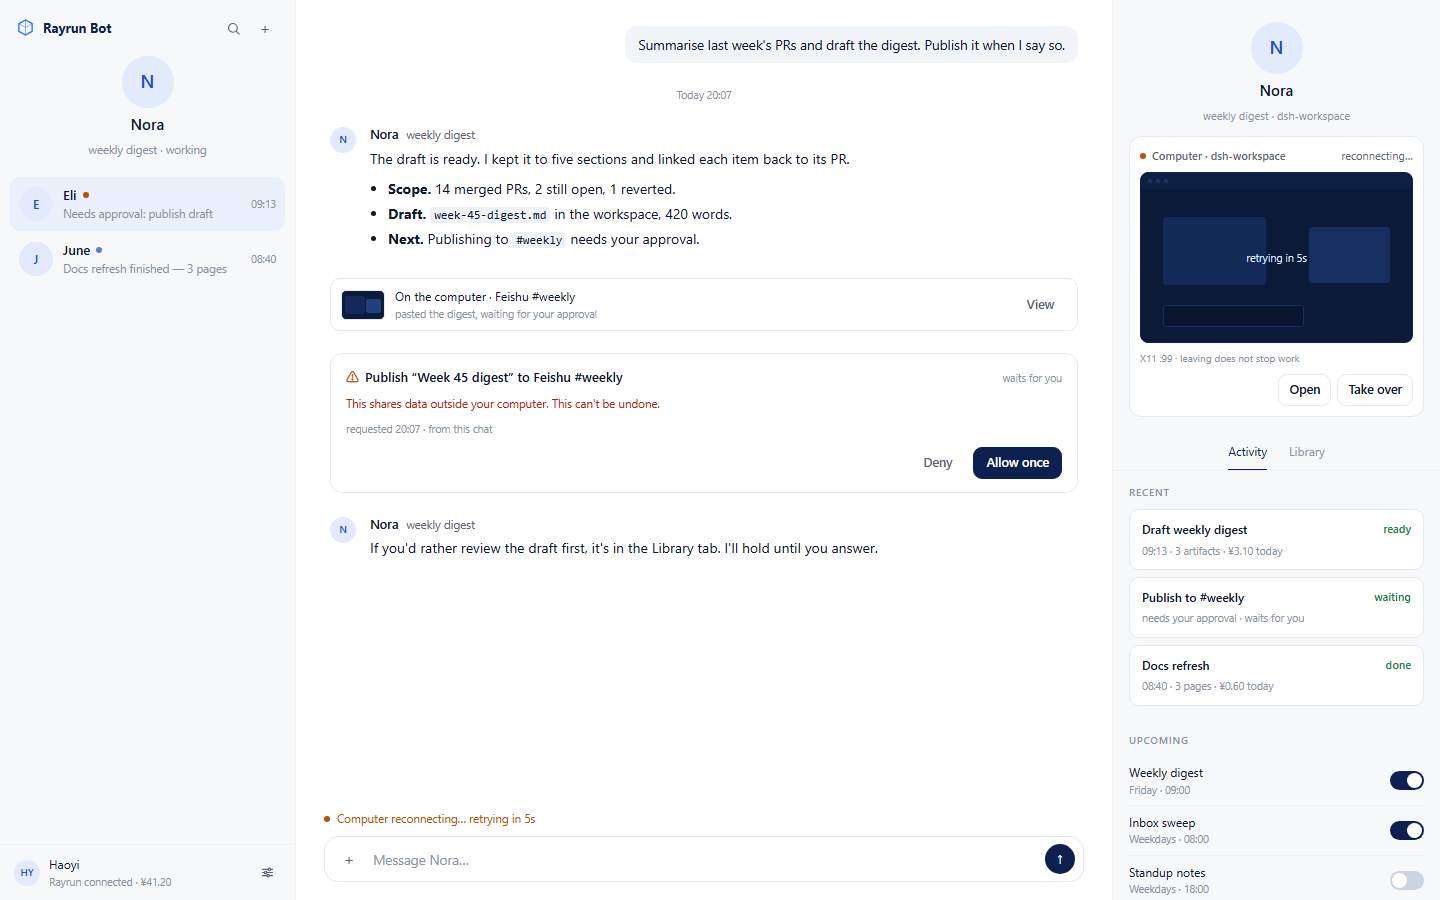
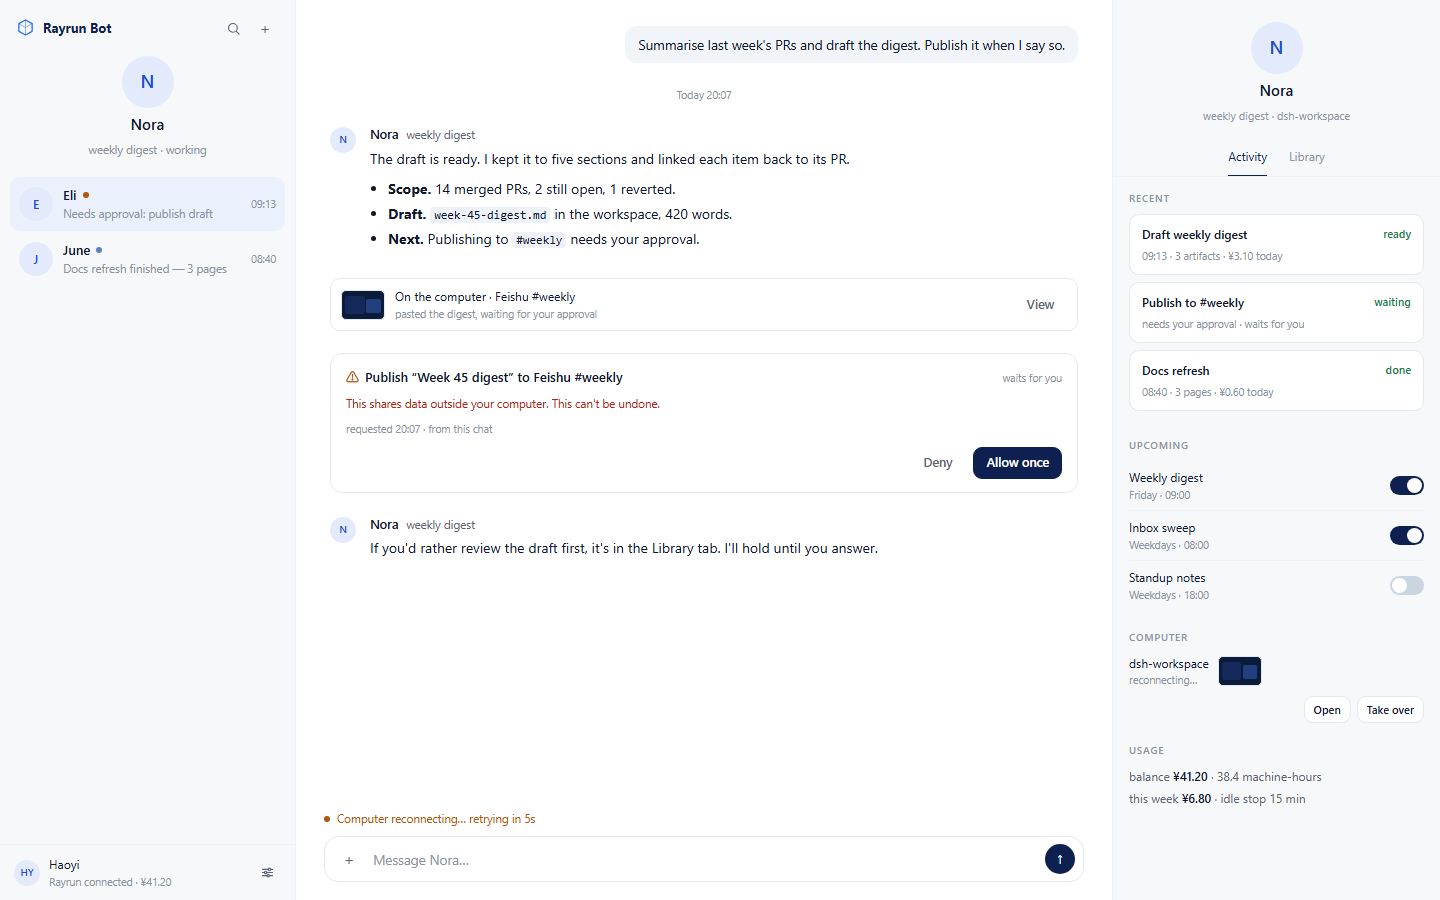
docs: restore the compact computer row in the details panel

diff --git a/docs/mockups/index.html b/docs/mockups/index.html
@@ -115,20 +115,6 @@
   .tabs { display: flex; justify-content: center; gap: 22px; border-bottom: 1px solid var(--border-soft); padding: 4px 16px 0; }
   .tab { border: 0; background: transparent; color: var(--faint); font-size: 12px; padding: 7px 0 9px; border-bottom: 1.5px solid transparent; }
   .tab.active { color: #0e2050; border-bottom-color: var(--accent); }
-  .computer-big { margin: 0 16px 14px; border: 1px solid var(--border); background: var(--card); border-radius: var(--radius); padding: 10px; display: grid; gap: 8px; }
-  .computer-big .cb-head { display: flex; align-items: center; justify-content: space-between; font-size: 11px; color: var(--muted); }
-  .computer-big .cb-head .l { display: flex; align-items: center; gap: 6px; font-weight: 550; }
-  .computer-big .screen { position: relative; aspect-ratio: 16 / 10; background: #0b1b3a; border-radius: 8px; overflow: hidden; border: 1px solid #12234d; }
-  .computer-big .screen .bar { height: 16px; display: flex; align-items: center; gap: 4px; padding: 0 7px; background: #12234d; }
-  .computer-big .screen .bar i { width: 4px; height: 4px; border-radius: 50%; background: #2c4a86; }
-  .computer-big .screen .w1 { position: absolute; left: 8%; top: 26%; width: 38%; height: 40%; border-radius: 4px; background: #1b3572; }
-  .computer-big .screen .w2 { position: absolute; right: 8%; top: 32%; width: 30%; height: 33%; border-radius: 4px; background: #22407f; }
-  .computer-big .screen .term { position: absolute; left: 8%; bottom: 9%; width: 52%; height: 13%; border-radius: 3px; background: #081229; border: 1px solid #233f7a; }
-  .computer-big .screen .overlay { position: absolute; inset: 0; display: grid; place-items: center; color: #dbe4fb; font-size: 10.5px; background: rgba(11, 27, 58, .45); }
-  .computer-big .cb-foot { display: grid; gap: 8px; }
-  .computer-big .cb-foot .meta { color: var(--faint); font-size: 10px; }
-  .computer-big .acts { display: flex; gap: 6px; justify-content: flex-end; }
-  .computer-big .acts .btn { padding: 5px 10px; white-space: nowrap; }
   .computer-act { display: grid; grid-template-columns: 44px 1fr auto; gap: 10px; align-items: center; border: 1px solid var(--border); background: var(--card); border-radius: 10px; padding: 8px 10px; max-width: 760px; width: 100%; align-self: center; }
   .computer-act .t { font-size: 12px; }
   .computer-act .s { color: var(--faint); font-size: 10.5px; }
@@ -155,7 +141,8 @@
   .computer .nm { font-size: 12px; }
   .computer .st { color: var(--faint); font-size: 10.5px; }
   .computer .acts { display: flex; gap: 7px; }
-  .computer .acts .btn { flex: 1; text-align: center; }
+  .computer .acts.compacts { justify-content: flex-end; gap: 6px; }
+  .computer .acts.compacts .btn { flex: none; padding: 4px 9px; font-size: 11px; }
 
   .usage { color: var(--muted); font-size: 12px; display: grid; gap: 3px; }
   .usage b { color: var(--text); font-weight: 600; }
@@ -301,21 +288,6 @@
       <div class="sub">weekly digest · dsh-workspace</div>
     </div>
 
-    <div class="computer-big">
-      <div class="cb-head"><span class="l"><span class="dot needs"></span>Computer · dsh-workspace</span><span>reconnecting…</span></div>
-      <div class="screen">
-        <div class="bar"><i></i><i></i><i></i></div>
-        <div class="w1"></div>
-        <div class="w2"></div>
-        <div class="term"></div>
-        <div class="overlay">retrying in 5s</div>
-      </div>
-      <div class="cb-foot">
-        <span class="meta">X11 :99 · leaving does not stop work</span>
-        <div class="acts"><button class="btn">Open</button><button class="btn">Take over</button></div>
-      </div>
-    </div>
-
     <div class="tabs">
       <button class="tab active" data-tab="activity">Activity</button>
       <button class="tab" data-tab="library">Library</button>
@@ -354,6 +326,20 @@
         </div>
       </div>
 
+
+      <div class="sec">
+        <h3>Computer</h3>
+        <div class="computer">
+          <div class="row">
+            <div><div class="nm">dsh-workspace</div><div class="st">reconnecting…</div></div>
+            <div class="thumb"></div>
+          </div>
+          <div class="acts compacts">
+            <button class="btn">Open</button>
+            <button class="btn">Take over</button>
+          </div>
+        </div>
+      </div>
 
       <div class="sec">
         <h3>Usage</h3>

diff --git a/docs/ui-design.md b/docs/ui-design.md
@@ -89,10 +89,7 @@ Column widths: 296 px / flexible / 328 px. The details column collapses below
 
 ### 2.3 Details panel
 
-Profile header (avatar, name, `job · computer`), then the large **computer
-preview** — the biggest element in the panel: a live 16:10 screen, a state line
-(`live` / `reconnecting…` / `sleeping`) with a centered status overlay, `X11 :99`,
-and `Open` / `Take over`. Below it, the `Activity | Library` tabs.
+Profile header (avatar, name, `job · computer`), then `Activity | Library` tabs.
 
 **Activity** sections:
 
@@ -100,6 +97,10 @@ and `Open` / `Take over`. Below it, the `Activity | Library` tabs.
   artifact count and today's spend. A receipt is the "report back" surface.
 - **Upcoming** — routines: one row per routine with title, schedule and a toggle.
   v0.1 ships at most one routine (P1); the other rows illustrate the shape.
+- **Computer** — a compact row near the bottom, like the reference: name and
+  state (`live` / `reconnecting…` / `sleeping`) on the left, a small 44×30 screen
+  thumbnail on the right, and `Open` / `Take over` right-aligned below. No large
+  preview in v0.1; the live view opens the dependency's desktop page.
 - **Usage** — balance, machine-hours, this week's spend, idle-stop policy.
 
 **Library** groups artifacts under Today / This week / Older; each row is a file,
@@ -139,7 +140,7 @@ and RPC still expose the same list for future views.
 | Inline approval card with Deny / allow | `approvals-security-and-privacy.md:30-57` | `Deny` / `Allow once`; `Always allow` deferred to Auto Review (v0.2) |
 | Chat cards wait, background cards expire 30 min | `approvals-security-and-privacy.md:72-83` | copied via `origin` field |
 | Editable draft marked Needs approval | `chat-and-collaboration.md:89-107` | copied |
-| Computer preview with open/take over | `computer-and-apps.md:31-63` | large preview at the top of the details panel, plus computer activity rows in the conversation |
+| Computer preview with open/take over | `computer-and-apps.md:31-63` | small computer row at the bottom of the details panel, like the reference, plus activity rows in the conversation |
 | Attention states in the list | `settings-and-notifications.md:205-214` | dots: needs attention / unread / working |
 | Bot name, picture, job label; light persona | `bots.md:5-6,77-103`; [bot-persona.md](bot-persona.md) | copied; monogram avatar in v0.1 |
 | Voice chat, group chats, mobile, shared bots, marketplace, Vault, Auto Review | Grok Bot product surface | out of v0.1 (§8) |
@@ -161,7 +162,7 @@ Two anchors: the reference screenshot decides the layout (three columns, chat-li
 | `DetailsPanel` | right | C3 | profile, tabs |
 | `ReceiptCard` | activity | C3 | task, state, time, artifacts, spend |
 | `RoutineRow` | upcoming | C4 | title, schedule, toggle |
-| `ComputerPreview` | details (top) | C4 | large live preview, state overlay, Open / Take over |
+| `ComputerRow` | details (bottom) | C4 | name, state, small thumbnail, Open / Take over |
 | `ComputerActivityRow` | conversation | C3 | mini screen, what the bot is doing, View |
 | `UsageBlock` | details | C4 | balance, hours, week, idle stop |
 | `NewBotForm` | newbot | C2 | name, job, instructions, monogram |

diff --git a/docs/client-plan.md b/docs/client-plan.md
@@ -25,7 +25,7 @@ voice: [bot-persona.md](bot-persona.md).*
 | --- | --- | --- | --- |
 | Chat list | left column | search, `+`, current bot, bot rows with latest snippet, time and attention dot | P0 |
 | Conversation | center column | markdown messages, day separators, inline approval/draft cards, composer | P0 |
-| Bot details panel | right column | profile, large computer preview, Activity/Library tabs, receipts, routines, usage | P0 |
+| Bot details panel | right column | profile, Activity/Library tabs, receipts, routines, compact computer row, usage | P0 |
 | Inline approval cards | conversation | action, warning, origin and TTL; Deny / Allow once; attention dot in the chat list | P0 |
 | Onboarding wizard | own page | dependency check → Rayrun sign-in → DeepSeek key → computer + first bot | P0 |
 | Usage block | details panel + list footer | balance, machine hours, week spend, idle-stop policy, low-balance notice | P0 |
